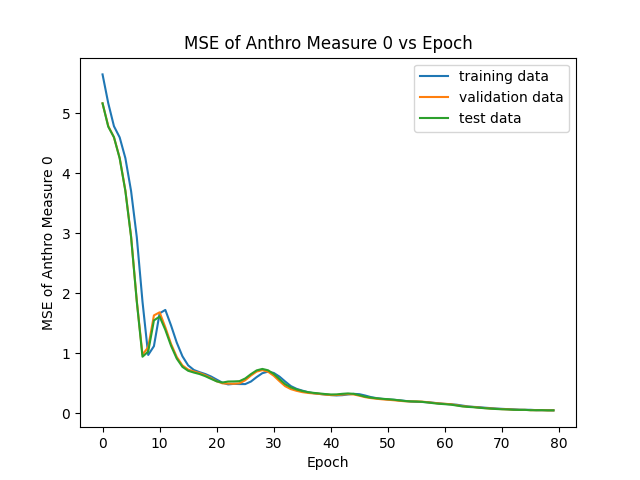
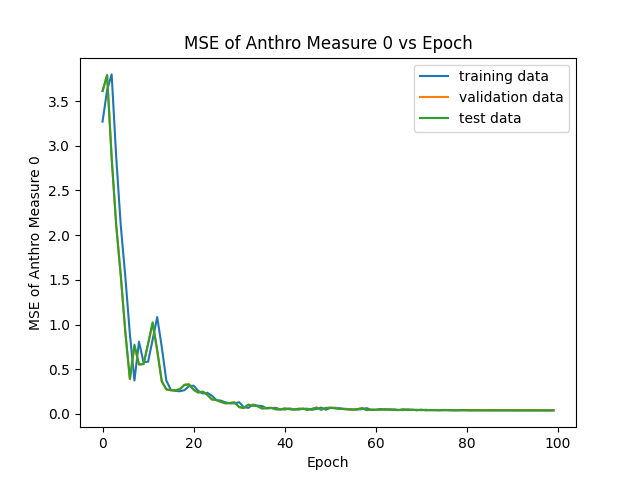
added some code for HRTF

diff --git a/src/inputProcessing.py b/src/inputProcessing.py
@@ -1,6 +1,8 @@
 import h5py
 import os
 import numpy as np
+import sys
+import matplotlib.pyplot as plt
 
 # Class to extract data from HDF5 file
 class InputProcessing:
@@ -10,7 +12,7 @@ class InputProcessing:
         pass
 
     # return an array representing the hrir from a single subject
-    def extractSingleHRIR(self, subject_num: int):
+    def extractSingleHRIR(self, subject_num: int, plot: bool):
         subject = 'subject_' + str(subject_num).zfill(3)
         file_path =  os.path.join('..','data','cipic.hdf5')
 
@@ -19,8 +21,32 @@ class InputProcessing:
             dset_left = f[subject]['hrir_l']['trunc_64']
             row_right = np.array(dset_right)
             row_left = np.array(dset_left)
+            left_hrtf = self.FourierTransform(row_left)
+            right_hrtf = self.FourierTransform(row_right)
         single_hrir = np.vstack((row_left, row_right))
+        single_hrtf = np.vstack((left_hrtf, right_hrtf))
         
+        if plot:
+            hrir_plot = plt.figure()
+            plt.plot(range(len(row_left[0])), row_left[0], label = "left hrir")
+            plt.plot(range(len(row_right[0])), row_right[0], label = "right hrir")
+            plt.legend(loc="upper right")
+            plt.ylabel("HRIR")
+            plt.xlabel("Time")
+            plt.title(f"First HRIR Plot for subject {subject_num}")
+            plt.show()
+            plt.close()
+
+            hrtf_plot = plt.figure()
+            plt.plot(range(len(left_hrtf[0])), left_hrtf[0], label = "left hrtf")
+            plt.plot(range(len(right_hrtf[0])), right_hrtf[0], label = "right hrtf")
+            plt.legend(loc="upper right")
+            plt.ylabel("HRTF")
+            plt.xlabel("Frequency")
+            plt.title(f"First HRTF Plot for subject {subject_num}")
+            plt.show()
+            plt.close() 
+        sys.exit(0)
         return single_hrir
     
     # return an array representing the positions of a single subject
@@ -37,7 +63,7 @@ class InputProcessing:
     
     # return an array with hrir and position of a single subject
     def extractSingleHrirAndPos(self, subject_num: int):
-        hrir = self.extractSingleHRIR(subject_num)
+        hrir = self.extractSingleHRIR(subject_num, False)
         pos = self.extractSinglePos(subject_num)
         hrir_pos = np.hstack((hrir, pos))
         return hrir_pos
@@ -96,3 +122,18 @@ class InputProcessing:
             hrir_pos = np.vstack((hrir_pos, currHrirPosArray))
             anthro = np.vstack((anthro, currAnthroArray))
         return hrir_pos, anthro
+
+    # perform FFT on data
+    def FourierTransform(self, data):
+        #Get the HRTF
+        print(np.shape(data))
+        outputs_fft = np.fft.rfft(data, axis=1)
+        # outputs_complex = np.zeros(np.shape(outputs_fft), dtype=outputs_fft.dtype)
+        # for (s, h) in enumerate(outputs_fft):
+        outputs_complex = outputs_fft/np.max(np.abs(outputs_fft))
+        outputs_mag = abs(outputs_complex) 
+        outputs_mag = 20.0*np.log10(outputs_mag)
+        return outputs_mag
+
+IP = InputProcessing()
+fft = IP.extractSingleHRIR(3, True)

diff --git a/src/train_and_validate.py b/src/train_and_validate.py
@@ -35,7 +35,7 @@ class ModelTrainer:
         #Choose Adam Optimizer, learning rate
         optimizer = torch.optim.Adam(model.parameters(), lr=0.01)
         #Set iterations
-        epochs = 80
+        epochs = 100
         train_losses = []
         val_losses = []
         test_losses = []
@@ -104,7 +104,7 @@ class ModelTrainer:
         plt.ylabel("Loss")
         plt.xlabel("Epoch")
         plt.title("Training Loss")
-        trainLoss.savefig('../figures/trunc64/split2/error.png')
+        trainLoss.savefig('../figures/raw/split2/error.png')
         plt.close()
 
         # Plot error for each anthro measurement
@@ -124,7 +124,7 @@ class ModelTrainer:
 
             ylabel = "MSE of Anthro Measure " + str(i)
             plotlabel = ylabel + " vs Epoch"
-            figlabel = "../figures/trunc64/split2/indivAnthro/" + str(i) + ".png"
+            figlabel = "../figures/raw/split2/indivAnthro/" + str(i) + ".png"
 
             plt.ylabel(ylabel)
             plt.xlabel("Epoch")
@@ -150,12 +150,14 @@ class ModelTrainer:
                 for j in range(len(anthro_eval)):
                     anthro_eval_at_i.append(anthro_eval[j][i])
                     anthro_test_at_i.append(anthro_test[j][i])
-                plt.plot(range(len(anthro_eval)), anthro_eval_at_i, label = "prediction")
-                plt.plot(range(len(anthro_test)), anthro_test_at_i, label = "actual")
+                plt.plot(range(500), anthro_eval_at_i[0:500], label = "prediction")
+                plt.plot(range(500), anthro_test_at_i[0:500], label = "actual")
                 plt.legend(loc="upper right")
                 plt.ylabel("Measurement")
                 plt.xlabel("HRIR")
                 plt.title(f"Anthro Prediction for measurement{i}")
-                prediction.savefig(f'../figures/trunc64/split2/test/{i}_pred.png')
+                prediction.savefig(f'../figures/raw/split2/test/{i}_pred.png')
+                if i == 2:
+                    plt.show()
                 plt.close()
         return lossAnthro

diff --git a/src/model.py b/src/model.py
@@ -8,18 +8,18 @@ This class represents the model architecture used for
 this simple model
 
 One input vectors:
-    HRIR of left ear + Src Position: 1 X 203
+    HRIR of left ear + Src Position: 1 x 64
     
 Output Vectors:
-    Left-Ear-Only Anthro Measurements: 10 X 1
+    Ear Anthro Measurements: 1 x 10
 
 '''
 
 class Model(nn.Module):
 
     def __init__(self, 
-                 hrir_pos=67, 
-                 h1=10, h2=15, h3=10, 
+                 hrir_pos=203, 
+                 h1=30, h2=45, h3=30, 
                  ear_anthro=10):
         super().__init__() # instantiate our nn.Module
         #Connect model

diff --git a/src/dataProcessing.py b/src/dataProcessing.py
@@ -66,13 +66,5 @@ class DataProcessing:
         Y_test = torch.tensor(Y_test).to(torch.float32)
         return X_train, X_valid, X_test, Y_train, Y_valid, Y_test
 
-    # Function to perform FFT on data
-    def FourierTransform(self):
-        singleData = self.IP.extractSingleHRIR(3)
-        singleLine = singleData[0]
-        print(singleLine)
-
-DP = DataProcessing()
-DP.FourierTransform() 
 
     

diff --git a/src/main.py b/src/main.py
@@ -42,3 +42,4 @@ class Main:
 
 main = Main()
 main.trainAndTest()
+print(main.predictAnthro(3, "LEFT"))
